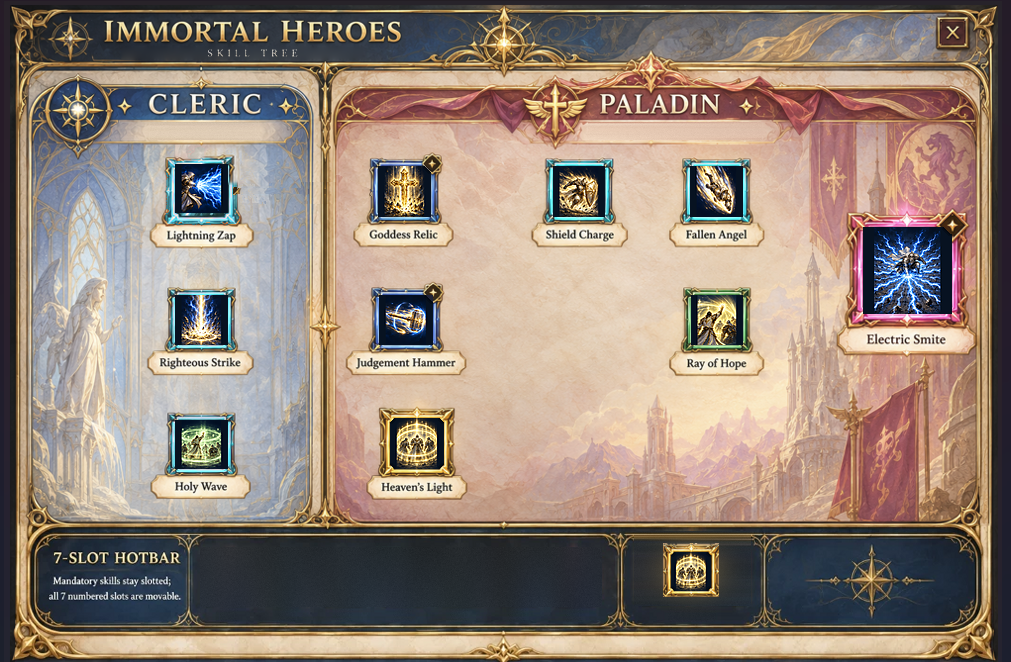
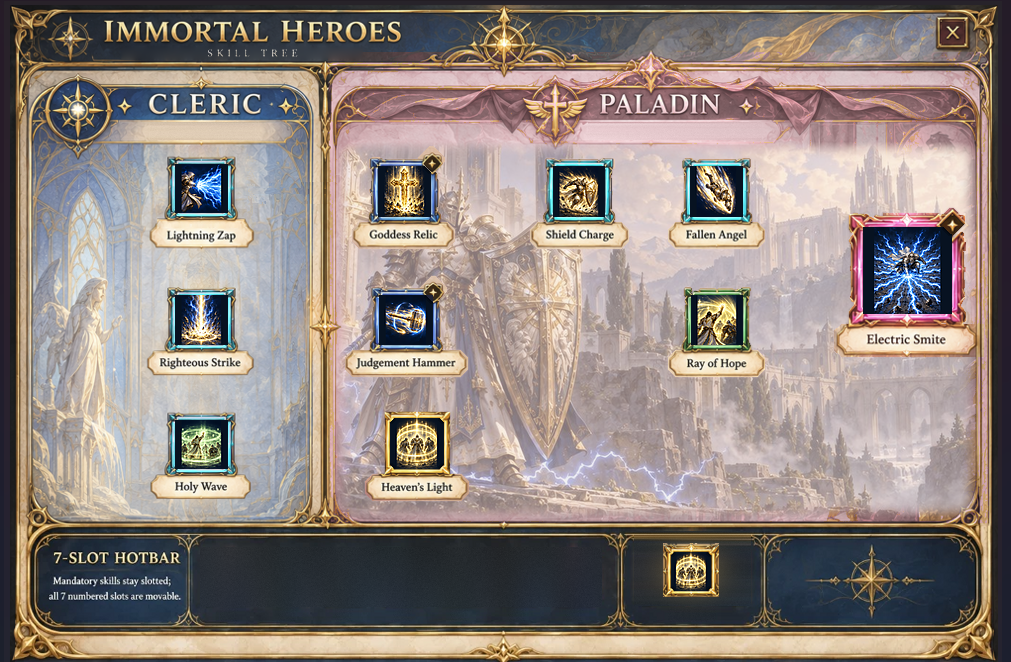
v0.25.39 Altar Panels: Blessing middle panel, skill description panel, Paladin scene backdrop
Claude-Session: https://claude.ai/code/session_01XpdCpqX2P5cHTKtzw8jsN7

Changed region(s): [[0.3066, 0.0604, 0.9812, 0.7855], [0.1533, 0.2115, 0.2453, 0.3625]]

diff --git a/AlbedosCustomClasses.Core.cs b/AlbedosCustomClasses.Core.cs
@@ -41,7 +41,7 @@ namespace AlbedosCustomClasses
     {
         public const string ModGuid = "albedo.customclasses";
         public const string ModName = "Dragon's Altar";
-        public const string ModVersion = "0.25.38";
+        public const string ModVersion = "0.25.39";
 
         internal const string ClassDataKey = "AlbedoCustomClasses.Class";
         internal const string AdvancementDataKey = "AlbedoCustomClasses.Advancement";
@@ -785,6 +785,8 @@ namespace AlbedosCustomClasses
         }
         private Transform _altarBaseSkillFooter, _altarAdvSkillFooter;
         private Text _altarBaseMechanics, _altarAdvMechanics;
+        private Text _altarBaseBlessing, _altarAdvBlessing, _altarBaseBlessingLabel, _altarAdvBlessingLabel;
+        private ScrollRect _altarBaseBlessingScroll, _altarAdvBlessingScroll;
         private ScrollRect _altarBaseMechanicsScroll, _altarAdvMechanicsScroll;
         private readonly List<Button> _altarBaseSkillButtons = new List<Button>();
         private readonly List<Button> _altarAdvSkillButtons = new List<Button>();
@@ -835,22 +837,57 @@ namespace AlbedosCustomClasses
             return description.Substring(0, mechanics).TrimEnd() + (tail < 0 ? "" : "\n\n" + description.Substring(tail));
         }
 
+        // v0.25.39 (user): the overview keeps IDENTITY + BEST FOR; every section in between (Blessing, Mastery,
+        // Grace) goes to the middle panel. One section -> its own title becomes the panel title.
+        private static void AltarSplit(string description, bool advancement, out string overview, out string header, out string body)
+        {
+            overview = description; header = advancement ? "MASTERY & GRACE" : "BLESSING"; body = string.Empty;
+            if (string.IsNullOrEmpty(description)) return;
+            string[] parts = description.Split(new string[] { "<b>" }, StringSplitOptions.RemoveEmptyEntries);
+            System.Text.StringBuilder ov = new System.Text.StringBuilder();
+            List<string> mids = new List<string>();
+            for (int i = 0; i < parts.Length; i++)
+            {
+                string part = "<b>" + parts[i].TrimEnd();
+                int close = part.IndexOf("</b>", StringComparison.Ordinal);
+                string title = close > 3 ? part.Substring(3, close - 3).Trim() : string.Empty;
+                if (title == "IDENTITY" || title == "BEST FOR") { if (ov.Length > 0) ov.Append("\n\n"); ov.Append(part); }
+                else if (title == "CORE MECHANICS" || title == "MECHANICS" || title == "PLAYSTYLE") continue;
+                else mids.Add(part);
+            }
+            if (ov.Length > 0) overview = ov.ToString();
+            if (mids.Count == 1)
+            {
+                string only = mids[0];
+                int close = only.IndexOf("</b>", StringComparison.Ordinal);
+                header = only.Substring(3, close - 3).Trim();
+                body = only.Substring(close + 4).Trim();
+            }
+            else body = string.Join("\n\n", mids.ToArray());
+        }
+
         private void BuildAltarSkillDetails(Transform parent, bool advancement)
         {
             Text overview;
             ScrollRect overviewScroll = AltarTextScroll(parent,"ClassOverview",new Vector2(215f,110f),new Vector2(520f,120f),out overview);
             AltarRule(parent,215f,38f,520f,1f);
-            CreateWrappedText(parent,"MECHANICS",new Vector2(215f,20f),500f,26f,19,new Color(0.40f,0.20f,0.08f,1f),true,TextAnchor.MiddleLeft);
-            Text mechanics;
-            ScrollRect mechanicsScroll = AltarTextScroll(parent,"SelectedSkillMechanics",new Vector2(215f,-60f),new Vector2(520f,126f),out mechanics);
+            // v0.25.39 (user): middle panel = Blessing (Mastery & Grace on the Advancement page); the clicked
+            // skill's description lives bottom right, next to the skill list. Every text is its own scroll view.
+            Text blessingLabel = CreateWrappedText(parent,"BLESSING",new Vector2(215f,20f),500f,26f,19,new Color(0.40f,0.20f,0.08f,1f),true,TextAnchor.MiddleLeft);
+            blessingLabel.resizeTextForBestFit = true; blessingLabel.resizeTextMinSize = 12; blessingLabel.resizeTextMaxSize = 19;
+            Text blessing;
+            ScrollRect blessingScroll = AltarTextScroll(parent,"BlessingText",new Vector2(215f,-60f),new Vector2(520f,126f),out blessing);
             Transform footer = AltarRect("SkillFooter",parent,Vector2.zero,new Vector2(1040f,900f));
             AltarRule(footer,215f,-133f,520f,1f);
+            AltarRule(footer,214f,-222f,1f,172f);
             AltarRule(footer,215f,-313f,520f,1f);
-            // v0.25.38 (user): no PASSIVE column - the Blessing / Mastery / Grace text sits in the overview
-            // between IDENTITY and BEST FOR; the skill list uses the full width.
             CreateWrappedText(footer,"SKILLS",new Vector2(85f,-150f),240f,28f,20,new Color(0.40f,0.20f,0.08f,1f),true,TextAnchor.MiddleLeft);
-            if (advancement) { _advDetailBody=overview; _altarAdvScroll=overviewScroll; _altarAdvMechanics=mechanics; _altarAdvMechanicsScroll=mechanicsScroll; _altarAdvSkillFooter=footer; }
-            else { _baseDetailBody=overview; _altarBaseScroll=overviewScroll; _altarBaseMechanics=mechanics; _altarBaseMechanicsScroll=mechanicsScroll; _altarBaseSkillFooter=footer; }
+            CreateWrappedText(footer,"SKILL",new Vector2(347f,-150f),246f,28f,20,new Color(0.40f,0.20f,0.08f,1f),true,TextAnchor.MiddleLeft);
+            Text mechanics;
+            ScrollRect mechanicsScroll = AltarTextScroll(footer,"SelectedSkillMechanics",new Vector2(347f,-237f),new Vector2(250f,138f),out mechanics);
+            mechanics.fontSize = 14;
+            if (advancement) { _advDetailBody=overview; _altarAdvScroll=overviewScroll; _altarAdvMechanics=mechanics; _altarAdvMechanicsScroll=mechanicsScroll; _altarAdvSkillFooter=footer; _altarAdvBlessing=blessing; _altarAdvBlessingLabel=blessingLabel; _altarAdvBlessingScroll=blessingScroll; }
+            else { _baseDetailBody=overview; _altarBaseScroll=overviewScroll; _altarBaseMechanics=mechanics; _altarBaseMechanicsScroll=mechanicsScroll; _altarBaseSkillFooter=footer; _altarBaseBlessing=blessing; _altarBaseBlessingLabel=blessingLabel; _altarBaseBlessingScroll=blessingScroll; }
         }
 
         private Sprite AltarSkillIcon(string id)
@@ -888,12 +925,13 @@ namespace AlbedosCustomClasses
             if(old!=null) { old.gameObject.SetActive(false); Destroy(old.gameObject); }
             Transform group=AltarRect("SkillChoices",footer,Vector2.zero,new Vector2(1040f,900f));
             AltarSkillEntry[] skills=AltarSkillEntries(className,false);
+            mechanics.text="<i>Click a skill to read what it does.</i>";
             bool twoColumns=skills.Length>3;
             for(int i=0;i<skills.Length;i++)
             {
                 int row=twoColumns ? i/2 : i, col=twoColumns ? i%2 : 0;
-                float x=twoColumns ? 85f+col*262f : 215f;
-                CreateAltarSkillChoice(group,skills[i],new Vector2(x,-186f-row*43f),twoColumns ? 255f : 520f,mechanics,scroll,buttons);
+                float x=twoColumns ? 22f+col*127f : 84f;
+                CreateAltarSkillChoice(group,skills[i],new Vector2(x,-186f-row*43f),twoColumns ? 124f : 250f,mechanics,scroll,buttons);
             }
         }
 
@@ -907,7 +945,9 @@ namespace AlbedosCustomClasses
             Image tile=AltarImage("SkillIcon",row.transform,new Vector2(-width/2f+(largeIcon ? 27f : 17f),0f),new Vector2(largeIcon ? 48f : 30f,largeIcon ? 48f : 30f),icon,icon==null ? new Color(0.08f,0.15f,0.26f,1f) : Color.white,false);
             Outline outline=tile.gameObject.AddComponent<Outline>(); outline.effectColor=AltarGold; outline.effectDistance=new Vector2(1f,-1f);
             if(icon==null) CreateWrappedText(tile.transform,entry.Name.Substring(0,1),Vector2.zero,28f,28f,19,AltarGold,true,TextAnchor.MiddleCenter);
-            CreateWrappedText(row.transform,entry.Name,new Vector2(largeIcon ? 28f : 18f,0f),width-(largeIcon ? 60f : 40f),largeIcon ? 66f : 40f,width>200f ? 15 : 13,AltarInk,false,TextAnchor.MiddleLeft);
+            Text nameText=CreateWrappedText(row.transform,entry.Name,new Vector2(largeIcon ? 28f : 18f,0f),width-(largeIcon ? 60f : 40f),largeIcon ? 66f : 40f,width>200f ? 15 : 13,AltarInk,false,TextAnchor.MiddleLeft);
+            // v0.25.39: long names shrink to fit their row instead of being cut.
+            nameText.resizeTextForBestFit=true; nameText.resizeTextMinSize=9; nameText.resizeTextMaxSize=width>200f ? 15 : 13;
             buttons.Add(button);
             button.onClick.AddListener(delegate {
                 // Inspection only: no casts, tier changes, class selection or save writes.
@@ -1168,7 +1208,14 @@ namespace AlbedosCustomClasses
                 _baseDetailRole.color = AltarGold;
             }
             if (_baseDetailBody != null)
-                _baseDetailBody.text = AltarOverview(GetBaseClassDescription(_focusedBaseClass));
+            {
+                string ov, hd, bd;
+                AltarSplit(GetBaseClassDescription(_focusedBaseClass), false, out ov, out hd, out bd);
+                _baseDetailBody.text = ov;
+                if (_altarBaseBlessing != null) _altarBaseBlessing.text = bd;
+                if (_altarBaseBlessingLabel != null) _altarBaseBlessingLabel.text = hd;
+                if (_altarBaseBlessingScroll != null) _altarBaseBlessingScroll.verticalNormalizedPosition = 1f;
+            }
             RefreshAltarSkillFooter(_focusedBaseClass, false);
             if (_chooseBaseButtonText != null)
                 _chooseBaseButtonText.text = "Choose " + _focusedBaseClass;
@@ -1234,7 +1281,14 @@ namespace AlbedosCustomClasses
                 _advDetailRole.color = AltarGold;
             }
             if (_advDetailBody != null)
-                _advDetailBody.text = AltarOverview(GetAdvancementDescription(advancementName));
+            {
+                string ov, hd, bd;
+                AltarSplit(GetAdvancementDescription(advancementName), true, out ov, out hd, out bd);
+                _advDetailBody.text = ov;
+                if (_altarAdvBlessing != null) _altarAdvBlessing.text = bd;
+                if (_altarAdvBlessingLabel != null) _altarAdvBlessingLabel.text = hd;
+                if (_altarAdvBlessingScroll != null) _altarAdvBlessingScroll.verticalNormalizedPosition = 1f;
+            }
             RefreshAltarSkillFooter(advancementName, true);
 
             Player player = Player.m_localPlayer;

diff --git a/tools/build_class_art.py b/tools/build_class_art.py
@@ -87,8 +87,8 @@ GRADES = {
     "bowmaster": ([(8, 12, 4), (70, 96, 30), (196, 220, 110), (255, 250, 220)], 0.35),
 }
 # Panel hue per identity (degrees) for the background re-hue and the wash tint.
-SATS = {"priest": 0.45}
-HUES = {"ranger": 115, "acrobat": 170, "bowmaster": 95, "priest": 145, "warrior": 358, "swordmaster": 214, "mercenary": 14, "sorcerer": 276, "archmage": 284, "horizonwalker": 262}
+SATS = {"priest": 0.45, "paladin": 0.55}
+HUES = {"paladin": 352, "ranger": 115, "acrobat": 170, "bowmaster": 95, "priest": 145, "warrior": 358, "swordmaster": 214, "mercenary": 14, "sorcerer": 276, "archmage": 284, "horizonwalker": 262}
 
 
 def category(sid):
@@ -502,10 +502,12 @@ def main():
             write_icon(sid, akey)
         print("wrote", name)
 
-    # Cleric. Paladin keeps its painted panels; the game repairs Zap's frame itself at load.
+    # Cleric. v0.25.39 (user): the Paladin panel gets the paladin scene (rose kingdom wash) like the Priest
+    # panel got the priest scene; the Cleric panel stays as painted. The game repairs Zap's frame at load.
     _, pc, pa, pu, pg = CLERIC_KITS[0]
     for name in ("Cleric_Paladin_PreAdvance.png", "Cleric_Paladin_Reference.png"):
-        img = finish_header(Image.open(os.path.join(KEEP, name)).convert("RGBA"))
+        src = repair_lz(Image.open(os.path.join(KEEP, name)).convert("RGB"))
+        img = finish_header(build_background(src, None, "paladin", None, "paladin"))
         fill_tree(img, pc, pa, pu, pg, "cleric", "cleric")
         img.save(os.path.join(A, name))
         if preview and name.endswith("PreAdvance.png"):

diff --git a/DragonsAltar.DevTools.cs b/DragonsAltar.DevTools.cs
@@ -40,7 +40,7 @@ namespace DragonsAltarDevTools
     {
         public const string ModGuid = "albedo.customclasses.devtools";
         public const string ModName = "Dragon's Altar - Developer Tools";
-        public const string ModVersion = "0.25.38";
+        public const string ModVersion = "0.25.39";
 
         public static DeveloperToolsPlugin Instance;
 
@@ -82,7 +82,7 @@ namespace DragonsAltarDevTools
         private bool _defaultsChecked;
         private float _allDefaultsArmedUntil;
         // v0.22.5: every new pass starts from the default values once (user rule); raise this per pass.
-        private const string DefaultsPass = "0.25.38";
+        private const string DefaultsPass = "0.25.39";
 
         private readonly List<DevSetting> _settings = new List<DevSetting>();
         private readonly List<string> _sections = new List<string>();

diff --git a/AlbedosCustomClasses.Skills.cs b/AlbedosCustomClasses.Skills.cs
@@ -220,7 +220,7 @@ namespace AlbedosCustomClassesSkills
         public static SkillsPlugin Instance;
         public const string ModGuid = "albedo.customclasses.skills";
         public const string ModName = "Dragon's Altar - Starter Skills";
-        public const string ModVersion = "0.25.38";
+        public const string ModVersion = "0.25.39";
 
         private const string ClassDataKey = "AlbedoCustomClasses.Class";
         private const string WarriorRunBonusKey = "AlbedoCustomClasses.WarriorRunBonus";

diff --git a/DragonsAltar.Sorcerer.cs b/DragonsAltar.Sorcerer.cs
@@ -165,7 +165,7 @@ namespace DragonsAltarSorcerer
     {
         public const string ModGuid = "albedo.customclasses.sorcerer";
         public const string ModName = "Dragon's Altar - Sorcerer Advancements";
-        public const string ModVersion = "0.25.38";
+        public const string ModVersion = "0.25.39";
 
         private const string ClassDataKey = "AlbedoCustomClasses.Class";
         private const string AdvancementDataKey = "AlbedoCustomClasses.Advancement";

diff --git a/AlbedosCustomClasses.Advanced.cs b/AlbedosCustomClasses.Advanced.cs
@@ -116,7 +116,7 @@ namespace AlbedosCustomClassesAdvanced
     {
         public const string ModGuid = "albedo.customclasses.advanced";
         public const string ModName = "Dragon's Altar - Advancements";
-        public const string ModVersion = "0.25.38";
+        public const string ModVersion = "0.25.39";
 
         private const string ClassDataKey = "AlbedoCustomClasses.Class";
         private const string AdvancementDataKey = "AlbedoCustomClasses.Advancement";

diff --git a/DragonsAltar.Ranger.cs b/DragonsAltar.Ranger.cs
@@ -40,7 +40,7 @@ namespace DragonsAltarRanger
     {
         public const string ModGuid = "albedo.customclasses.ranger";
         public const string ModName = "Dragon's Altar - Ranger";
-        public const string ModVersion = "0.25.38";
+        public const string ModVersion = "0.25.39";
         private const string ClassDataKey = "AlbedoCustomClasses.Class";
         private const string AdvancementDataKey = "AlbedoCustomClasses.Advancement";
 

diff --git a/AlbedosCustomClasses.GuardianAngel.cs b/AlbedosCustomClasses.GuardianAngel.cs
@@ -17,7 +17,7 @@ namespace AlbedosCustomClassesGuardian
     {
         public const string ModGuid = "albedo.customclasses.guardian";
         public const string ModName = "Dragon's Altar - Grand Sigil Survival";
-        public const string ModVersion = "0.25.38";
+        public const string ModVersion = "0.25.39";
 
         private const string AdvancementDataKey = "AlbedoCustomClasses.Advancement";
 

diff --git a/AlbedosCustomClasses.Passives.cs b/AlbedosCustomClasses.Passives.cs
@@ -9,7 +9,7 @@ namespace AlbedosCustomClassesPassives
     {
         public const string ModGuid = "albedo.customclasses.passives";
         public const string ModName = "Dragon's Altar - Base Blessings Compatibility";
-        public const string ModVersion = "0.25.38";
+        public const string ModVersion = "0.25.39";
 
         private void Awake()
         {

diff --git a/DragonsAltar.CombatRuntime.cs b/DragonsAltar.CombatRuntime.cs
@@ -15,7 +15,7 @@ namespace DragonsAltarCombat
     {
         public const string ModGuid = "albedo.customclasses.combatruntime";
         public const string ModName = "Dragon's Altar - Combat Runtime";
-        public const string ModVersion = "0.25.38";
+        public const string ModVersion = "0.25.39";
 
         internal static DragonCombatPlugin Instance;
 

diff --git a/CLAUDE.md b/CLAUDE.md
@@ -3,7 +3,7 @@
 ## Working rules
 - User wants short responses and real execution, not long explanations.
 - **RUSH B** = immediately code the obvious requested task, minimal commentary, use latest approved build as baseline, don't redesign unrelated things, verify and package.
-- Latest package: **v0.25.38 — Combo Chains** (v0.25.37 Tooltip Fit, v0.25.36 Hammer Slam, v0.25.35 Swing Timing, v0.25.34 Buff Tooltips, v0.25.33 Piercing Volleys, v0.25.32 Two Hand Whirlwind, v0.25.31 Cyclone Shot, v0.25.30 Wind Up Timing, v0.25.29 Crow Hop, v0.25.28 Circle Skip, v0.25.27 Vanilla Base, v0.25.26 Anatomy, v0.25.25 Vanilla Layer, v0.25.24 Spin and Bow Poses, v0.25.23 Storyboard Rebuild, v0.25.22 Planted Feet, v0.25.21 Animation Guide, v0.25.20 Held Items, v0.25.19 Animation Polish, v0.25.18 Ranged and Rift Families, v0.25.17 Martial Families, v0.25.16 Casting Families, v0.25.15 Vanguard and Olympic Hero, v0.25.14 Smooth Motions, v0.25.13 Trait Motions, v0.25.12 Angel Comet and Burns, v0.25.11 Damage Split and Tooltips, v0.25.10 Ranger Motions, v0.25.9 Sorcerer Motions, v0.25.8 Warrior Motions, v0.25.7 Cleric Motions, v0.25.6 Orb and Motions, v0.25.5 HUD Rework, v0.25.4 Stat HUD, v0.25.3 Lean HUD, v0.25.2 HUD Fixes, v0.25.1 HUD Style, v0.25.0 Immortal HUD, v0.24.4 Animations, v0.24.3 Ranger Fixes, v0.24.2 Ranger Polish, v0.24.1 Bowmaster, v0.24.0 Ranger, v0.23.10 Art Fixes, v0.23.9 Class Art, v0.23.8 Icons, v0.23.7 Polish, v0.23.6 Astral Twins, v0.23.5 Universal UI, v0.23.4 Horizon Walker, v0.23.3 Tweaks, v0.23.2 Spellcaster, v0.23.1 Wizard, v0.23.0 Sorcerer, v0.22.5 Calibration, v0.22.4 Mercenary, v0.22.3 Sword Master, v0.22.2 HUD and Altar Fixes, v0.22.1 Kit UI Fixes, v0.22.0 Universal Kits, v0.21.2 Balance Pass, v0.21.1 Cleric Tweaks, v0.21.0 Priest Ascended, v0.20.9 Buckler Parry, v0.20.8 Cleric per Framework, v0.20.7 Cleric Consistency, v0.20.6 Polish, v0.20.5 Config Window, v0.20.4 Tree and Altar Fixes), built on ChatGPT's v0.20.3 (Universal Tree runtime chassis + uGUI Altar with Altar_Background/Altar_ClassCards; it REPLACED our v0.19.2/0.19.3 IMGUI Altar, which the user accepted as the new base). Older: v0.19.x ours, v0.19.0 ChatGPT. Do NOT change combat/progression logic unless explicitly requested.
+- Latest package: **v0.25.39 — Altar Panels** (v0.25.38 Combo Chains, v0.25.37 Tooltip Fit, v0.25.36 Hammer Slam, v0.25.35 Swing Timing, v0.25.34 Buff Tooltips, v0.25.33 Piercing Volleys, v0.25.32 Two Hand Whirlwind, v0.25.31 Cyclone Shot, v0.25.30 Wind Up Timing, v0.25.29 Crow Hop, v0.25.28 Circle Skip, v0.25.27 Vanilla Base, v0.25.26 Anatomy, v0.25.25 Vanilla Layer, v0.25.24 Spin and Bow Poses, v0.25.23 Storyboard Rebuild, v0.25.22 Planted Feet, v0.25.21 Animation Guide, v0.25.20 Held Items, v0.25.19 Animation Polish, v0.25.18 Ranged and Rift Families, v0.25.17 Martial Families, v0.25.16 Casting Families, v0.25.15 Vanguard and Olympic Hero, v0.25.14 Smooth Motions, v0.25.13 Trait Motions, v0.25.12 Angel Comet and Burns, v0.25.11 Damage Split and Tooltips, v0.25.10 Ranger Motions, v0.25.9 Sorcerer Motions, v0.25.8 Warrior Motions, v0.25.7 Cleric Motions, v0.25.6 Orb and Motions, v0.25.5 HUD Rework, v0.25.4 Stat HUD, v0.25.3 Lean HUD, v0.25.2 HUD Fixes, v0.25.1 HUD Style, v0.25.0 Immortal HUD, v0.24.4 Animations, v0.24.3 Ranger Fixes, v0.24.2 Ranger Polish, v0.24.1 Bowmaster, v0.24.0 Ranger, v0.23.10 Art Fixes, v0.23.9 Class Art, v0.23.8 Icons, v0.23.7 Polish, v0.23.6 Astral Twins, v0.23.5 Universal UI, v0.23.4 Horizon Walker, v0.23.3 Tweaks, v0.23.2 Spellcaster, v0.23.1 Wizard, v0.23.0 Sorcerer, v0.22.5 Calibration, v0.22.4 Mercenary, v0.22.3 Sword Master, v0.22.2 HUD and Altar Fixes, v0.22.1 Kit UI Fixes, v0.22.0 Universal Kits, v0.21.2 Balance Pass, v0.21.1 Cleric Tweaks, v0.21.0 Priest Ascended, v0.20.9 Buckler Parry, v0.20.8 Cleric per Framework, v0.20.7 Cleric Consistency, v0.20.6 Polish, v0.20.5 Config Window, v0.20.4 Tree and Altar Fixes), built on ChatGPT's v0.20.3 (Universal Tree runtime chassis + uGUI Altar with Altar_Background/Altar_ClassCards; it REPLACED our v0.19.2/0.19.3 IMGUI Altar, which the user accepted as the new base). Older: v0.19.x ours, v0.19.0 ChatGPT. Do NOT change combat/progression logic unless explicitly requested.
 - Never patch visual problems by drawing random rectangles over the reference asset. Keep approved artwork intact; make layout/components fit properly.
 
 ## Framework doc (source of truth for design)
@@ -143,6 +143,7 @@
 - v0.25.36 (user): Shield Charge finisher = HAMMER SLAM (main hand): `ShieldChargeBash` stops the charge clip/forced run (no block), plays `cleric_hammer_slam` (map mace_secondary@0.45, custom one-hand overhead fallback) over 0.4 s, `ShieldChargeSlamHit` deals the old bash damage on the slam. Left Click = edge of Input.GetMouseButton (GetMouseButtonDown was missed in FixedUpdate).
 - v0.25.37: buff tooltip uses its own styles `_ihTipTitle` / `_ihTipLine` (wordWrap off, no padding), box sized by CalcSize per line (GUI.skin.label wraps by default -> lines spilled out).
 - v0.25.38 COMBO CHAINS (user): CombatRuntime `PatchComboChains`: Attack.Start prefix sets m_attackChainLevels = 5 for chained melee weapons (levels >= 2), ZSyncAnimation.SetTrigger prefix maps <anim><level> onto the weapon's real swings (finisher = last swing, others cycle; dual wield uses dual_knives0-n if the animator has them, `DragonCombat.AnimTriggerCount`), Attack.Stop/Start postfix + Humanoid.StartAttack prefix = 1 s lockout after the last hit. Dual wield off-hand strike = Attack.OnAttackTrigger prefix (m_weapon = left item, mirrored m_attackAngle, DoMeleeAttack) - the DualWield mod's own clips live in an asset bundle that was NOT in the user's zip. Also: jump slams lock movement + `IhAirSteer` (WASD) instead of BeginMobileCast; Cataclysm stack prompt; Ascended Greatblade slams 2-3 replay wiz_greatblade over the gap; Halfmoon normal = one swing; clip driver: no foot planting while moving (>1.2 m/s), emote vanilla layer skipped while moving; Skyfall arrows from ShotOrigin, rg_hover Rot 24, 2 m sink; Furious Winds push 3/5 s (`*_v02538`); Altar PASSIVE column removed, Warrior/SM/Merc overviews have Blessing/Mastery/Grace sections.
+- v0.25.39 (user-approved preview docs/previews/PREVIEW_v0.25.39_Altar_Layout.png): Altar detail = top overview IDENTITY + BEST FOR, middle panel Blessing / Mastery & Grace (`AltarSplit`, single section -> its title is the panel label), footer: skills left (1 col x 250 / 2 cols x 124, names best-fit), clicked skill description in a scroll panel bottom right (347,-237 250x138). Paladin tree panels now built like Priest: `build_background(src, None, "paladin", None, "paladin")` from backdrops_v0238 PreAdvance/Reference (HUES paladin 352, SATS 0.55).
 - v0.22.2: HUD key labels use `_hudKeyCenterStyle` (UpperCenter); Altar shows Icon_righteous_strike_Normal.png (Icon_righteous_strike.png is the Ascended magenta frame).
 
 ## Ascended designs (approved so far; tooltip header "ASCENDED - <SKILL>", names unchanged)
